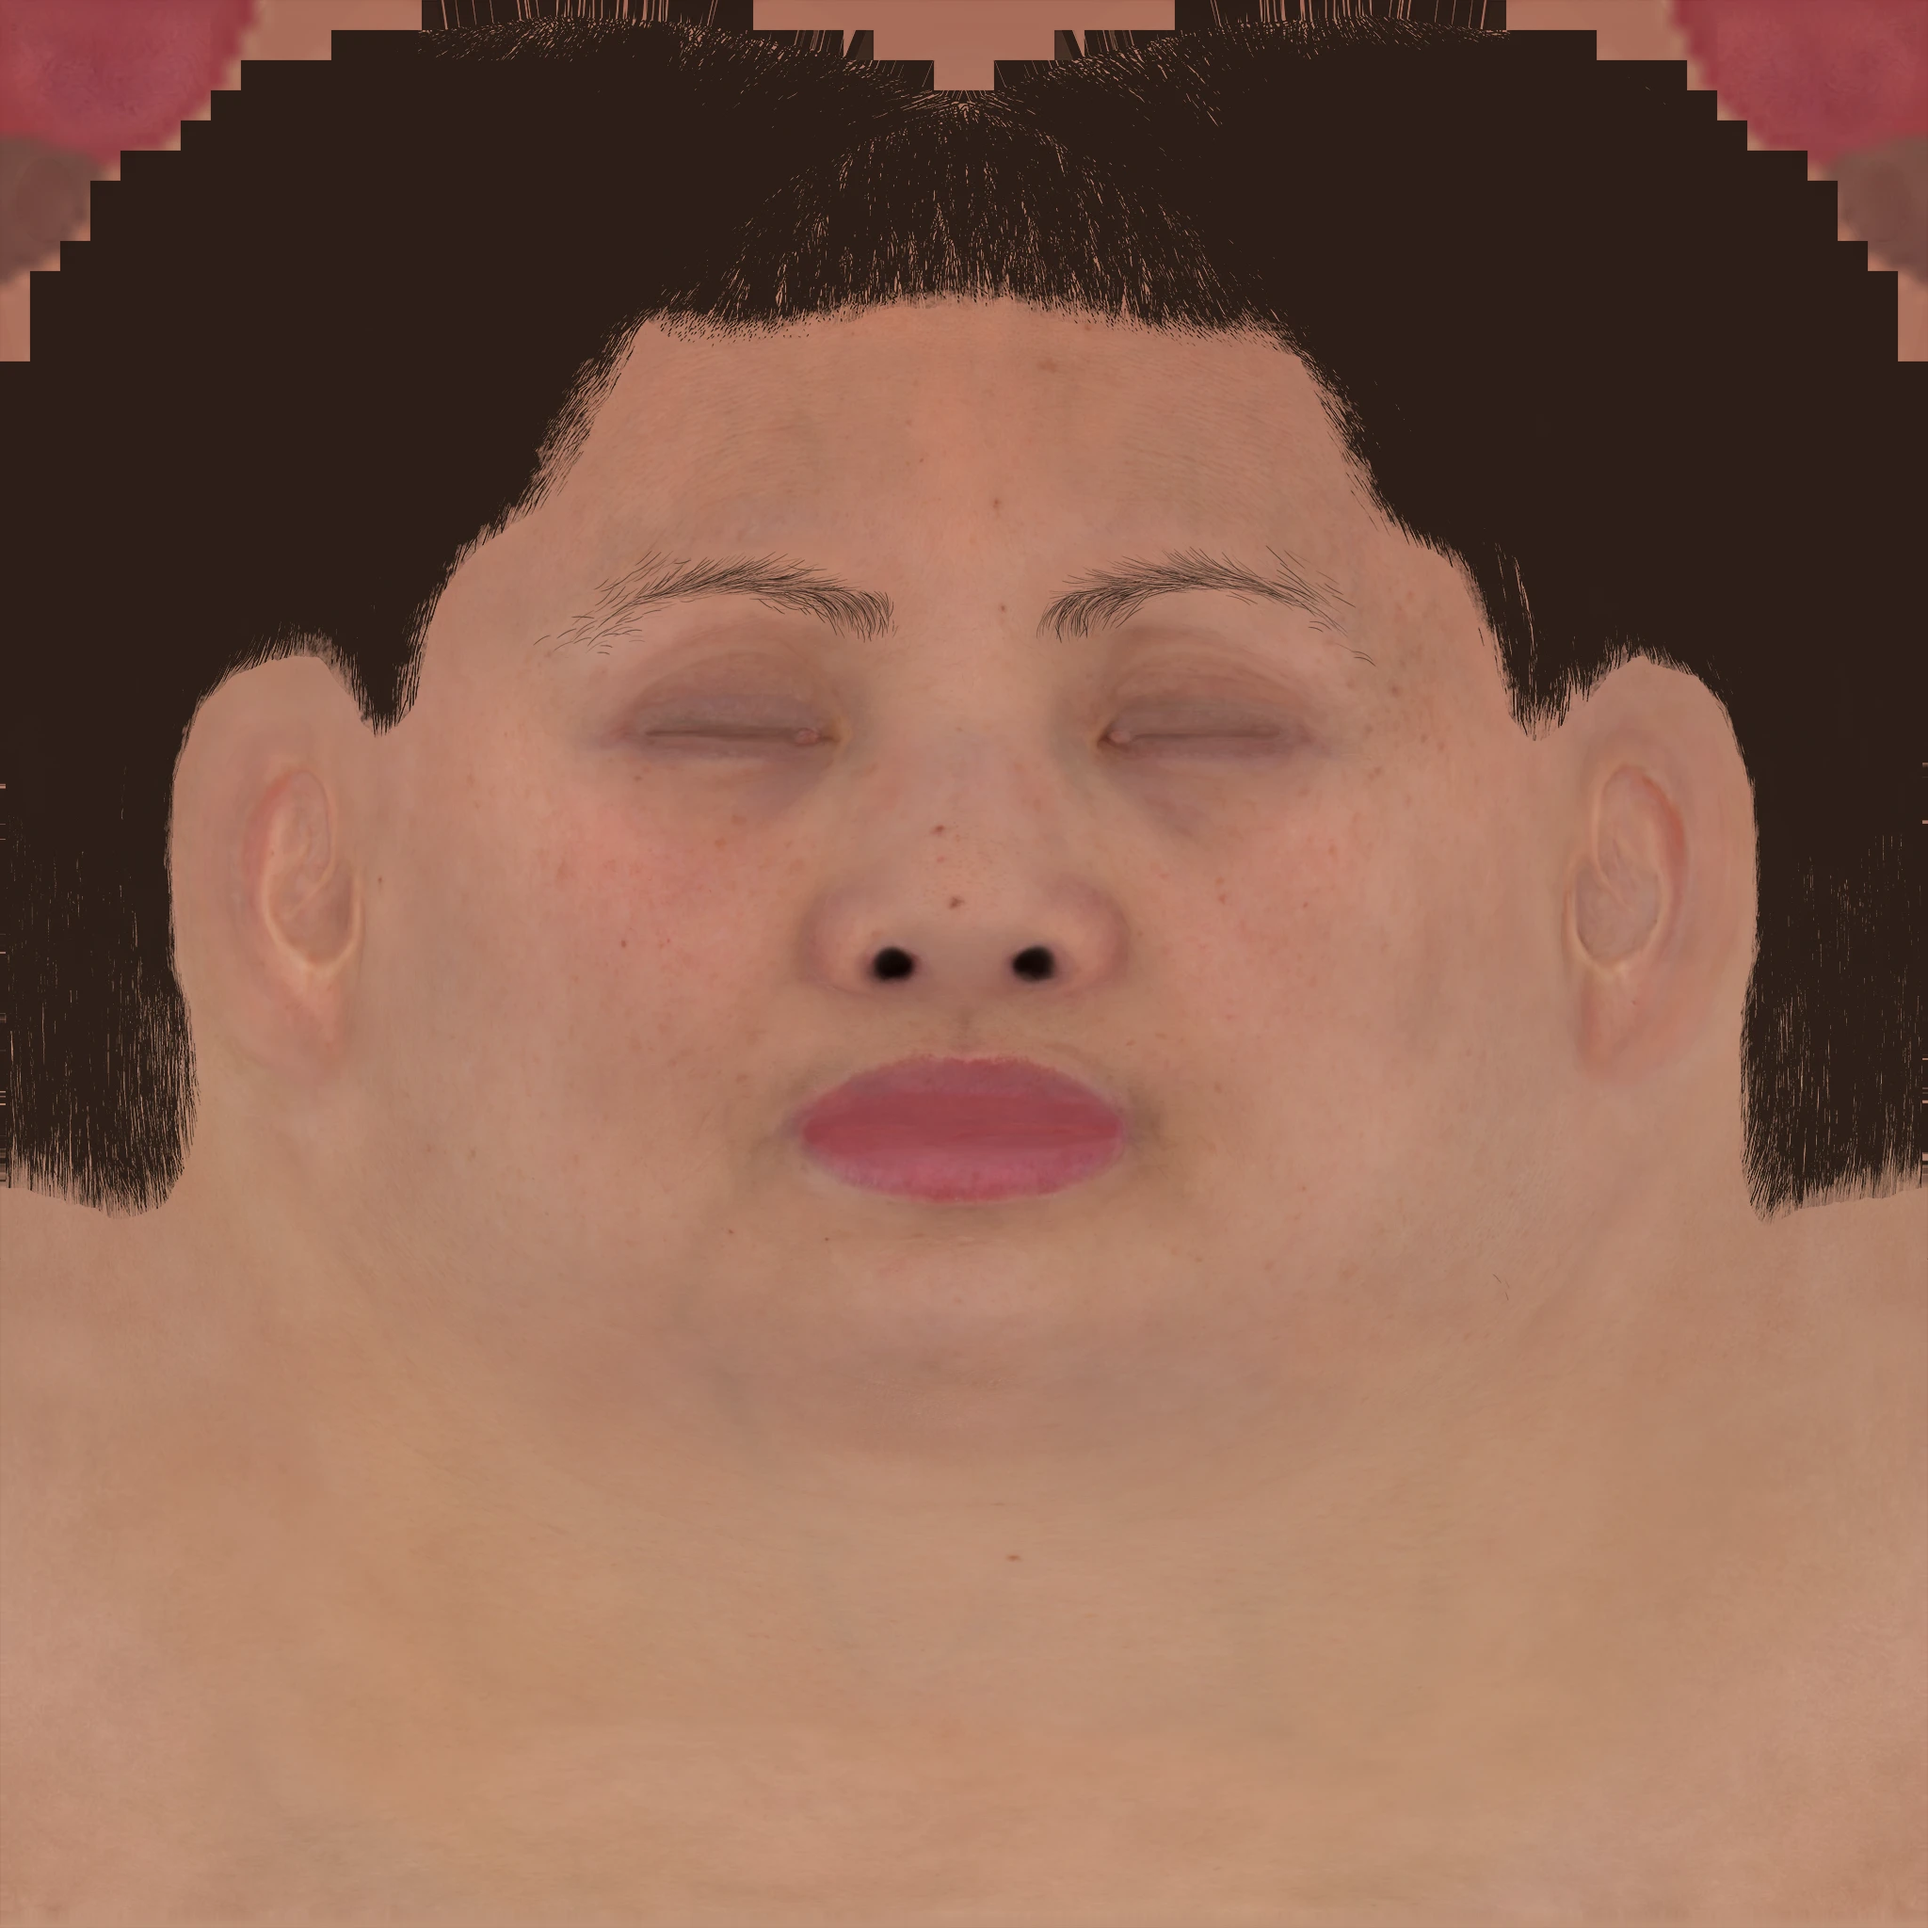
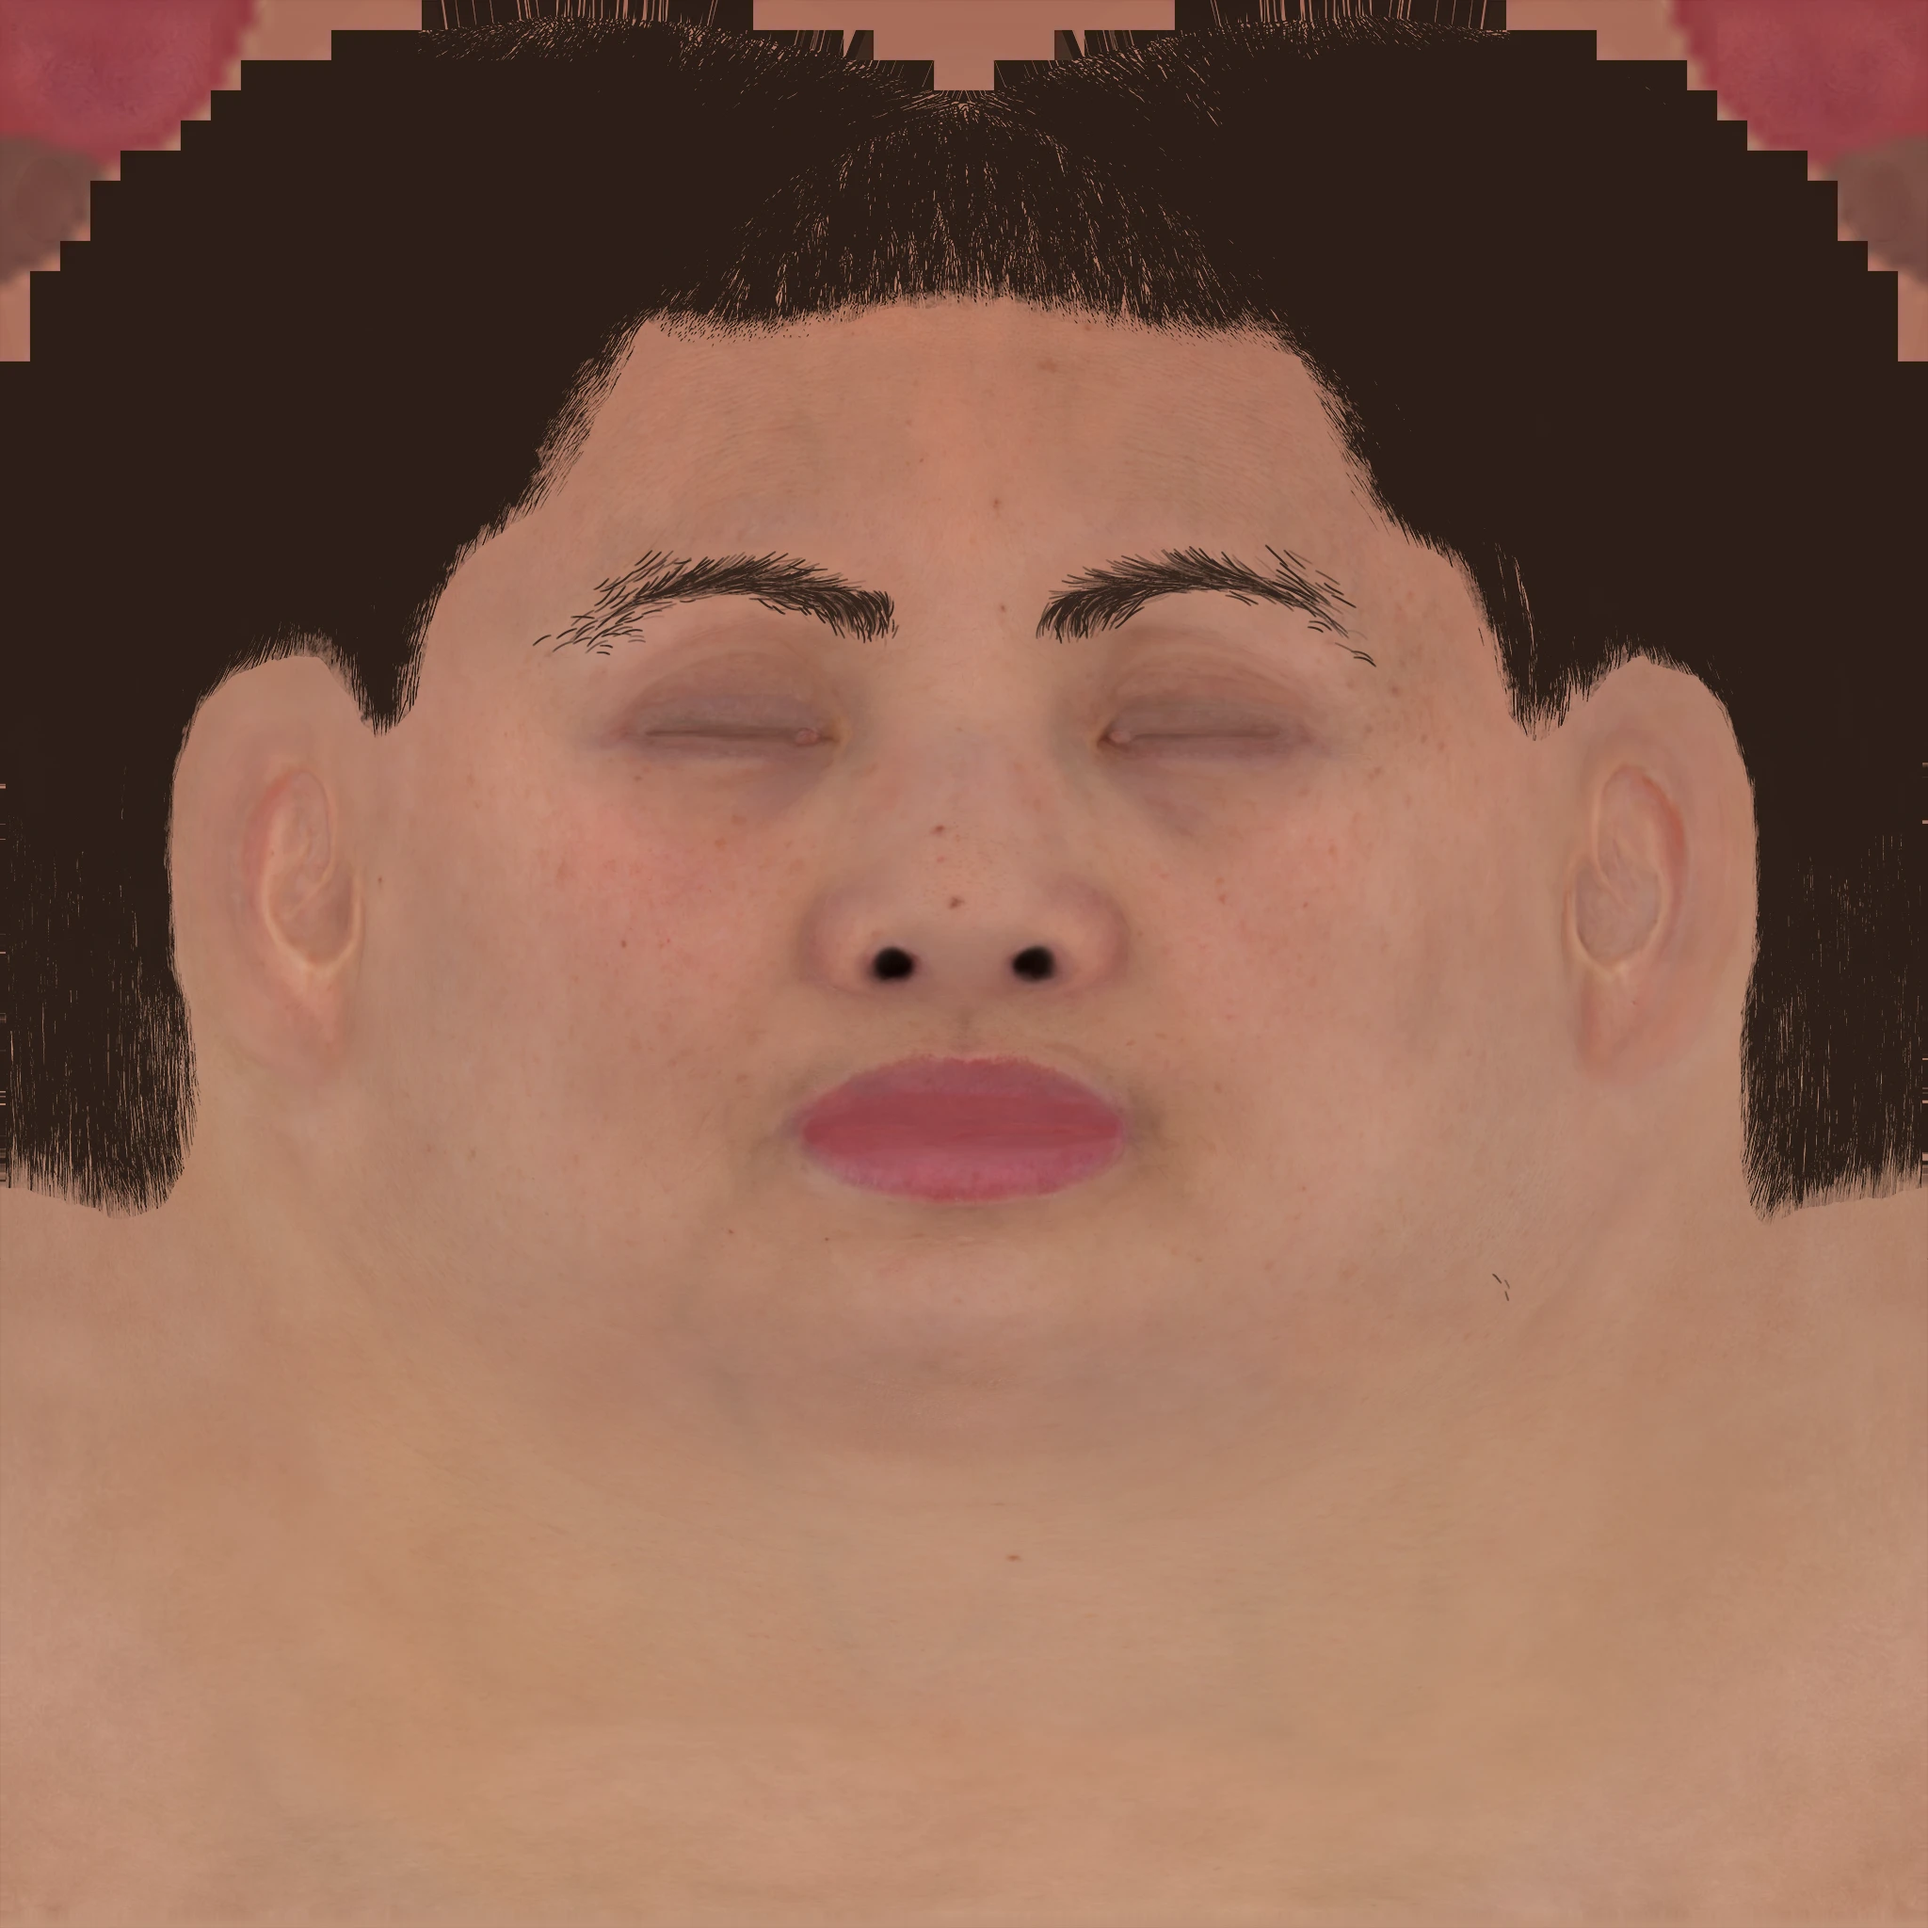
feat(ui): her eyebrows a little more defined
The baked brow alpha is one-pixel strands at 4096 px; scaled to the 2048 px
skin map and then on screen they averaged into a faint haze. groom.py now
spreads each strand by one pixel and lifts the alpha (gamma 0.8) before
painting, so the brows read under her bangs. The head color map and the
portrait are rebuilt from it.

Changed region(s): [[0.5312, 0.2812, 0.7188, 0.3438], [0.2812, 0.2812, 0.4688, 0.3438]]

diff --git a/web/tools/avatar/metahuman/export/groom.py b/web/tools/avatar/metahuman/export/groom.py
@@ -8,6 +8,8 @@ from dnafile import load, positions
 
 Image.MAX_IMAGE_PIXELS = None
 BROW = np.array([40, 28, 22], np.float32)
+BROW_SPREAD = 3
+BROW_GAMMA = 0.8
 HAIR = np.array([38, 26, 20], np.float32)
 LASH = np.array([34, 22, 17], np.float32)
 HAIR_CARDS = ["hair_g0_s0.json", "hair_g1_s0.json"]
@@ -71,10 +73,15 @@ def alpha_of(path, size):
     return np.asarray(Image.open(path).convert("RGBA").getchannel("A").resize(size), np.float32) / 255
 
 
+def brow_alpha(path, size):
+    a = Image.open(path).convert("RGBA").getchannel("A").filter(ImageFilter.MaxFilter(BROW_SPREAD))
+    return (np.asarray(a.resize(size), np.float32) / 255) ** BROW_GAMMA
+
+
 def head_color(src, out):
     base = Image.open(src / "Synth/BASECOLOR").convert("RGB")
     col = np.asarray(base, np.float32)
-    col = paint(col, alpha_of(src / "cards/Eyebrows_M_Natural_baked.tga", base.size), BROW, 1.1, 0.92)
+    col = paint(col, brow_alpha(src / "cards/Eyebrows_M_Natural_baked.tga", base.size), BROW, 1.15, 0.9)
     col = paint(col, alpha_of(src / "cards/Hair_L_StraightBangs_baked.tga", base.size), HAIR, 1.3, 0.95)
     Image.fromarray(col.clip(0, 255).astype(np.uint8)).save(out / "head_color_map.webp", quality=90)
 
